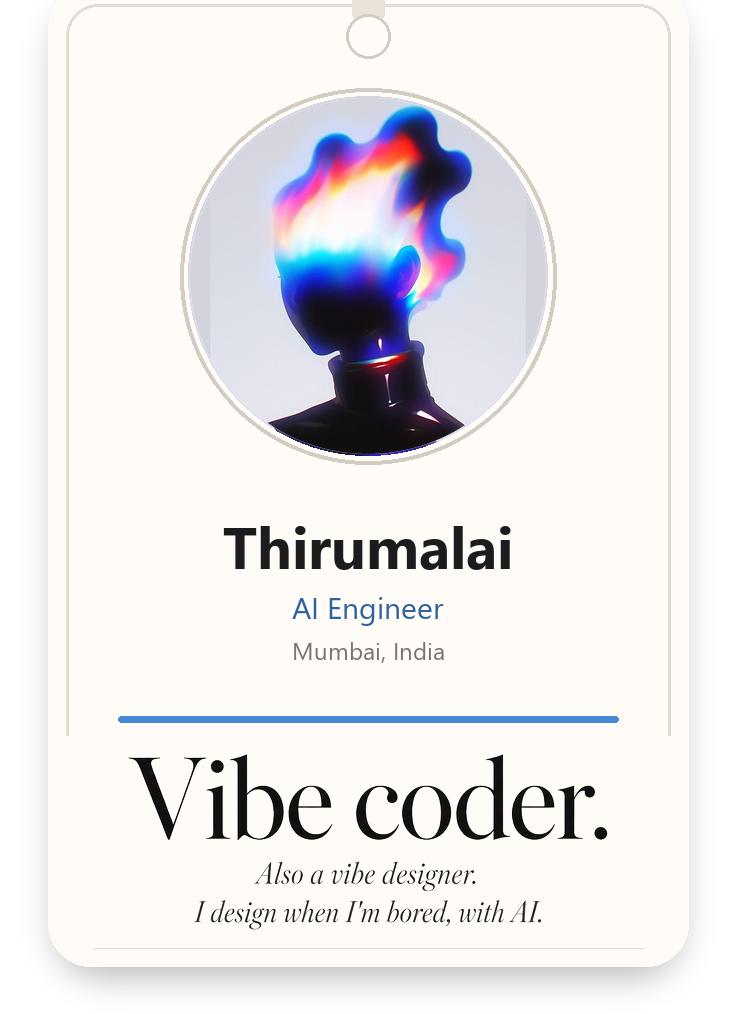
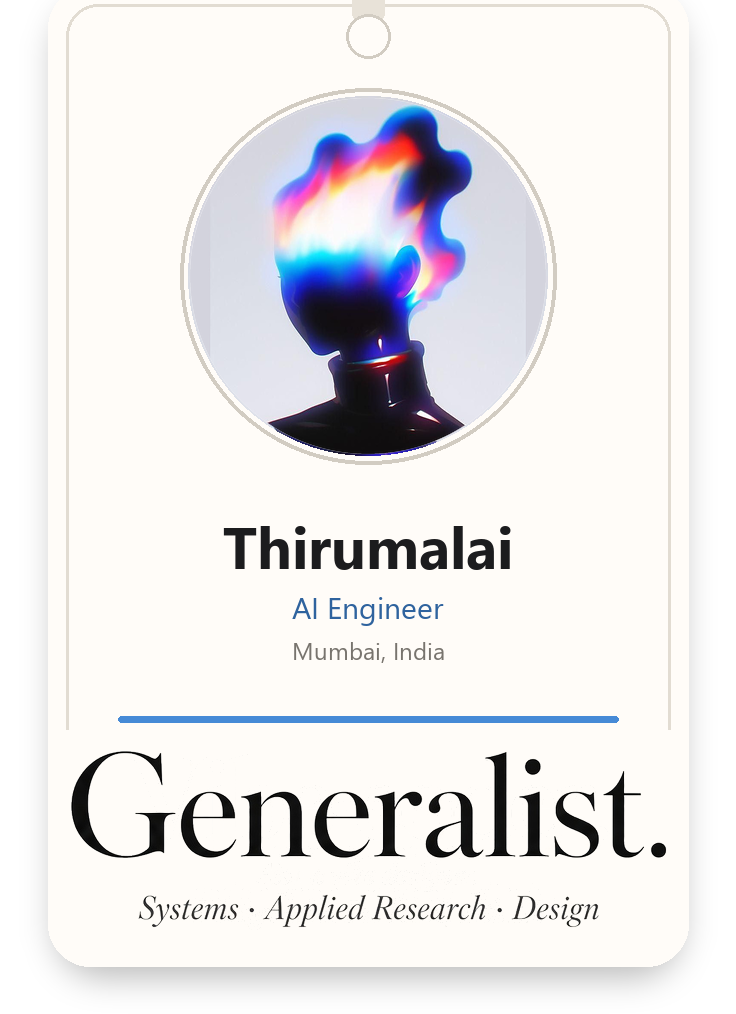
Retitle the ID card as Generalist and keep four Silicon Valley stickers.

Changed region(s): [[0.0938, 0.7337, 0.9062, 0.9172]]

diff --git a/src/data/desk.ts b/src/data/desk.ts
@@ -15,7 +15,7 @@ export const DESK_ITEMS: DeskItem[] = [
   {
     id: "card",
     kind: "card",
-    src: "/design/id-card.png?v=5",
+    src: "/design/id-card.png?v=6",
     label: "ID card",
     x: 5,
     y: 7,
@@ -113,71 +113,41 @@ export const DESK_ITEMS: DeskItem[] = [
     rotate: 2,
   },
   {
-    id: "zoro",
-    kind: "sticker",
-    src: "/design/sticker-zoro.png",
-    label: "Zoro",
-    x: 62,
-    y: 48,
-    w: 8,
-    rotate: -4,
-  },
-  {
     id: "jensen",
     kind: "sticker",
     src: "/design/sticker-jensen.png",
     label: "Jensen",
-    x: 78,
-    y: 42,
+    x: 72,
+    y: 40,
     w: 8,
     rotate: 4,
-  },
-  {
-    id: "doge",
-    kind: "sticker",
-    src: "/design/sticker-doge.png",
-    label: "Doge",
-    x: 86,
-    y: 54,
-    w: 8,
-    rotate: 3,
-  },
-  {
-    id: "isagi",
-    kind: "sticker",
-    src: "/design/sticker-isagi.png",
-    label: "Isagi",
-    x: 60,
-    y: 74,
-    w: 8.5,
-    rotate: 2,
-  },
-  {
-    id: "zuck",
-    kind: "sticker",
-    src: "/design/sticker-zuck.png",
-    label: "Zuck",
-    x: 68,
-    y: 70,
-    w: 8.5,
-    rotate: -2,
   },
   {
     id: "altman",
     kind: "sticker",
     src: "/design/sticker-altman.png",
     label: "Altman",
-    x: 70,
-    y: 48,
-    w: 7.5,
+    x: 82,
+    y: 42,
+    w: 8,
     rotate: -3,
+  },
+  {
+    id: "isagi",
+    kind: "sticker",
+    src: "/design/sticker-isagi.png",
+    label: "Isagi",
+    x: 42,
+    y: 74,
+    w: 8.5,
+    rotate: 2,
   },
   {
     id: "elizabeth",
     kind: "sticker",
     src: "/design/sticker-elizabeth.png",
     label: "Elizabeth",
-    x: 76,
+    x: 51,
     y: 70,
     w: 8,
     rotate: 2,
@@ -187,7 +157,7 @@ export const DESK_ITEMS: DeskItem[] = [
     kind: "sticker",
     src: "/design/sticker-tanjiro.png",
     label: "Tanjiro",
-    x: 84,
+    x: 60,
     y: 74,
     w: 8,
     rotate: -2,
@@ -197,39 +167,19 @@ export const DESK_ITEMS: DeskItem[] = [
     kind: "sticker",
     src: "/design/sticker-love.png",
     label: "I love anime",
-    x: 36,
-    y: 58,
-    w: 17,
+    x: 22,
+    y: 56,
+    w: 16,
     rotate: -2,
-  },
-  {
-    id: "elon",
-    kind: "sticker",
-    src: "/design/sticker-elon.png",
-    label: "Elon",
-    x: 15,
-    y: 64,
-    w: 12,
-    rotate: -1,
   },
   {
     id: "luffy",
     kind: "sticker",
     src: "/design/sticker-luffy.png",
     label: "Luffy",
-    x: 26,
+    x: 18,
     y: 68,
     w: 12,
-    rotate: 1,
-  },
-  {
-    id: "naruto",
-    kind: "sticker",
-    src: "/design/sticker-naruto.png",
-    label: "Naruto",
-    x: 37,
-    y: 74,
-    w: 11,
     rotate: 1,
   },
   {
@@ -237,9 +187,29 @@ export const DESK_ITEMS: DeskItem[] = [
     kind: "sticker",
     src: "/design/sticker-ichigo.png",
     label: "Ichigo",
-    x: 47,
+    x: 30,
     y: 74,
     w: 11,
     rotate: -1,
+  },
+  {
+    id: "elon",
+    kind: "sticker",
+    src: "/design/sticker-elon.png",
+    label: "Elon",
+    x: 70,
+    y: 56,
+    w: 12,
+    rotate: -1,
+  },
+  {
+    id: "zuck",
+    kind: "sticker",
+    src: "/design/sticker-zuck.png",
+    label: "Zuck",
+    x: 84,
+    y: 62,
+    w: 9,
+    rotate: 2,
   },
 ];

diff --git a/src/components/DesignDesk.tsx b/src/components/DesignDesk.tsx
@@ -7,7 +7,7 @@ import { PROFILE } from "@/data/portfolio";
 
 type Place = { x: number; y: number; z: number };
 
-const LAYOUT_KEY = "portfolio-desk-layout-v5";
+const LAYOUT_KEY = "portfolio-desk-layout-v6";
 
 function cordSag(dist: number, restDrop: number, side: number) {
   const slack = restDrop - dist;
